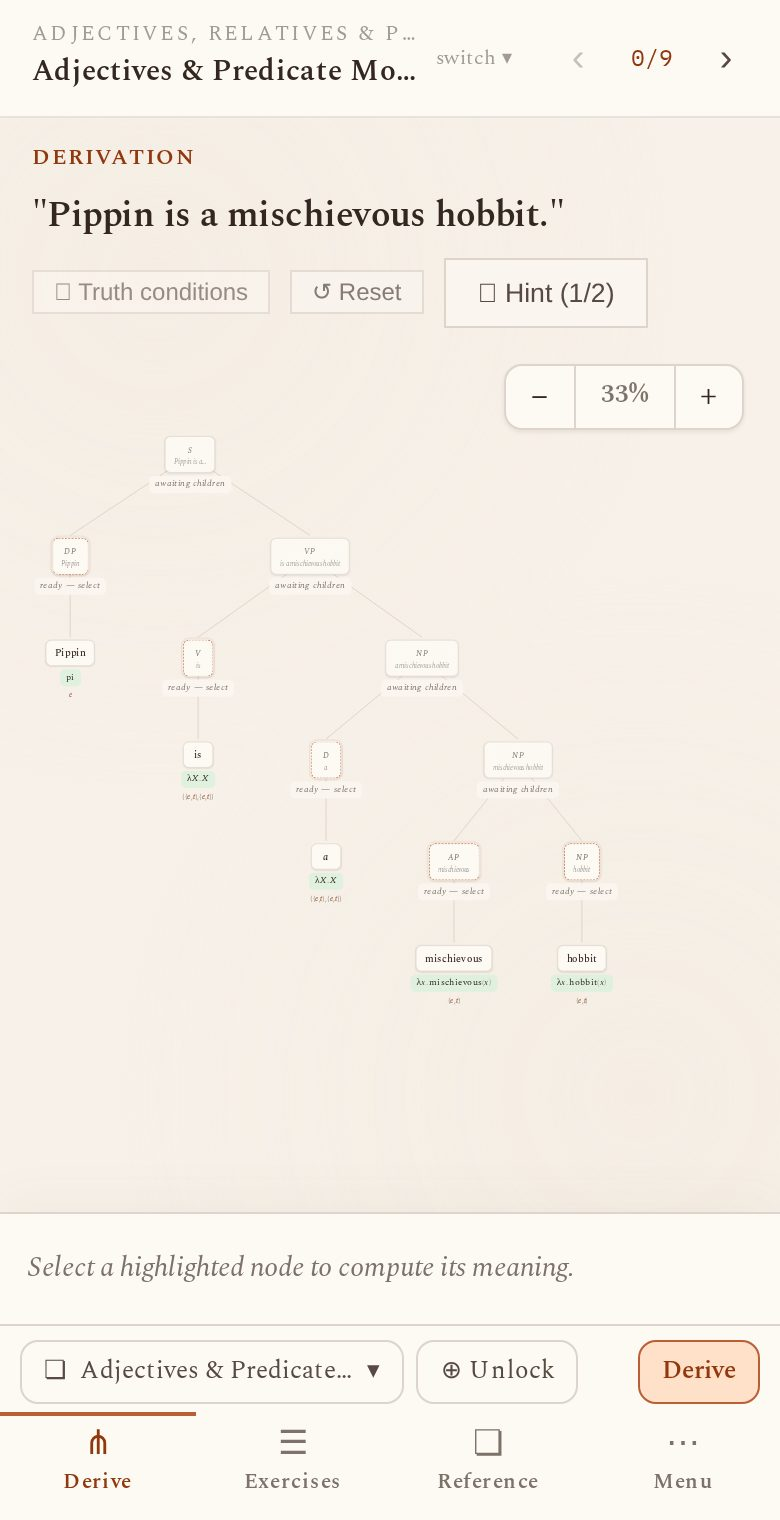
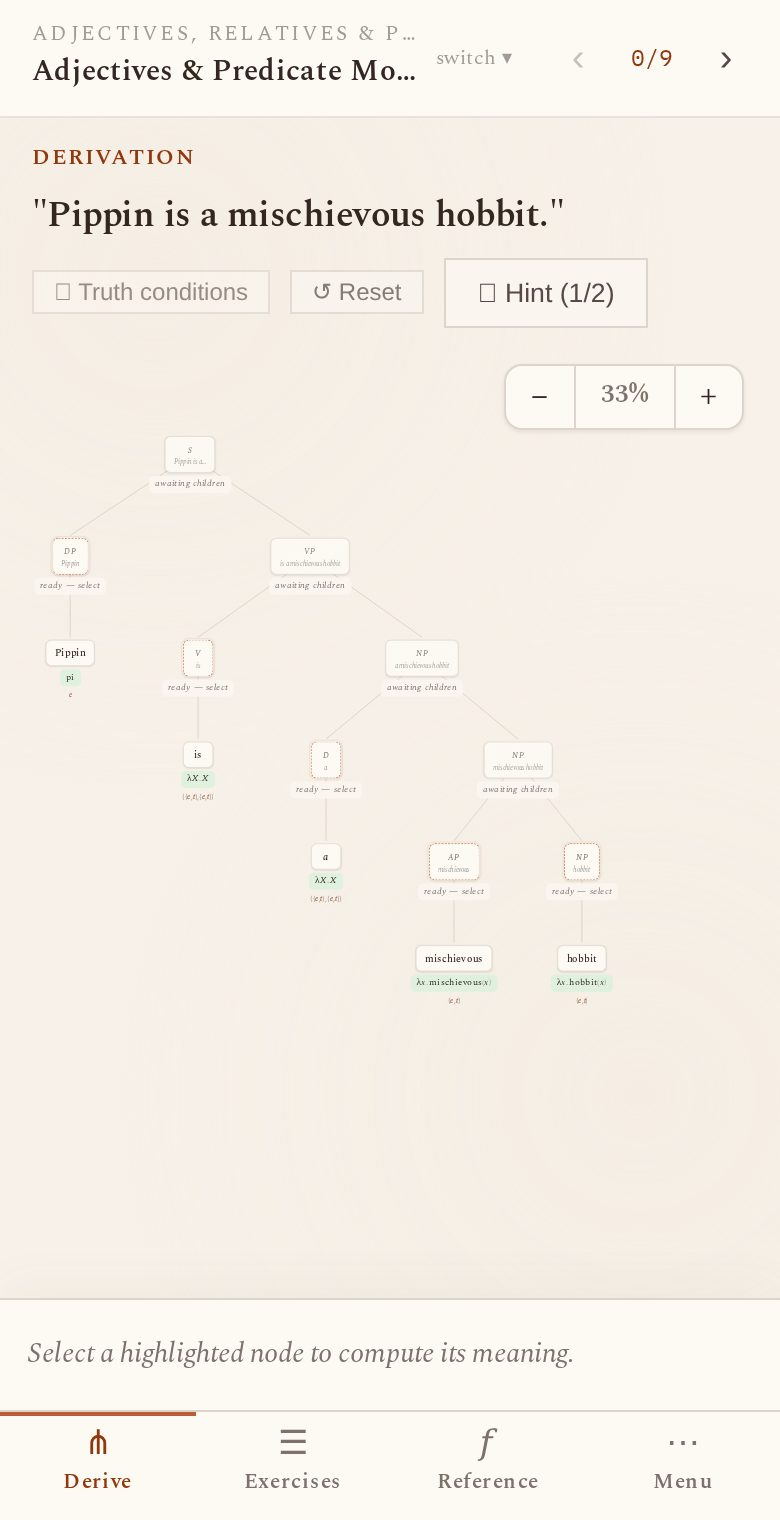
S57: media pass — re-shoot phone view (S55/S56 chrome), add tablet-drawer capture + guide figure; style the portrait guide figs; server suite 217

Changed region(s): [[0.0308, 0.8349, 0.7385, 0.9586], [0.8, 0.8658, 0.9846, 0.9276]]

diff --git a/build/guide-body.html b/build/guide-body.html
@@ -117,6 +117,9 @@ Lexicon/Rules/Notes tabs), and a Menu that carries the sidebar’s sections,
 unlock codes and settings. Worksheet-switching is on the Derive header and the
 Exercises tab.</p>
 
+<figure class="guide-fig guide-fig-mid"><img src="/guide/tablet-view.jpg" alt="The tablet layout: left navigation drawer over the full-width derivation stage" loading="lazy" />
+<figcaption>The tablet layout (760–1180px): the ☰ navigation drawer — worksheet sections, exercises and the code / QR &amp; progress foot — slides over the full-width stage; the app-bar keeps the exercise steppers and the 𝑓 Reference drawer button.</figcaption></figure>
+
 <figure class="guide-fig guide-fig-narrow"><img src="/guide/mobile-view.jpg" alt="The phone layout: derivation tree above the bottom tab bar" loading="lazy" />
 <figcaption>The phone layout: the full-width stage above the Derive · Exercises · Reference · Menu tab bar.</figcaption></figure>
 

diff --git a/PLAN.md b/PLAN.md
@@ -303,6 +303,8 @@ Sessions 0–7 are the minimum shippable path — a real, usable, deployed servi
 
 - **2026-08-01 — S56 (phone/tablet nav aligned to the desktop design language).** Goal: a user moving DESKTOP<->TABLET<->PHONE meets the same icons, section names, and order. Two changes, both PHONE-only (desktop `renderSidebarBody`/`renderRail`/reference panel UNTOUCHED; tablet already inherited desktop via `renderSidebarBody()` in its nav drawer and already used 𝑓 for its Reference button - confirmed no regression). (1) ICON FIX: the phone bottom-tab Reference glyph was ❏ - a direct collision with desktop ❏ = Worksheets. Changed to the reference glyph 𝑓 (U+1D453, `'𝑓'`), matching the tablet's `𝑓 Reference` button. (Derive ⋔, Exercises ☰, Menu ⋯ unchanged; ❏ is now used for Worksheets only, everywhere.) (2) MENU REORDER: `renderMobileMenu` (the phone Menu tab) was a hand-built list that diverged from the desktop sidebar - Account/identity block at the TOP, a `Hosting & sharing` section, no Continue section, plain-text kickers with no glyphs. Rewrote it to PARALLEL the desktop sidebar's `sbSection` order and iconography (still the phone list, NOT a fork of desktop rendering): Worksheets (❏) -> Continue (↻) -> Author (✎, canAuthor) -> Assign & share (☑, `tier==='instructor'`) -> Display (◐) -> Guide & help (ⓘ, isFullBuild) -> Account (◉, isFullBuild) LAST. Same gating expressions as the desktop `sbSection` calls. Each section header now carries its desktop glyph via a new `mbKicker(glyph,label)` helper (`.mb-kicker-glyph` span, added to themes.css beside `.mb-kicker` - muted, non-uppercased, fixed-width). Sub-items mirror desktop glyphs: Switch worksheet ❏, Your progress ✓, Unlock ⊕, Unlocked entries ⌗, My classes ❏; Continue recents ↻; Worksheet editor ✎, Scratchpad ♪, Import ↑; Choose what a class sees ☑, My versions ◈; Display toggles + Save progress ⤓ / Restore progress ⤒; Guide & help doc rows keep their per-page glyphs (◆ ? ▷ ⤓ §); Account = anon `Sign in or create an account`, signed-in identity + Sign out. vs the old phone menu: ADDED Continue (was absent); RENAMED `Hosting & sharing`->`Assign & share`; MOVED Account top->bottom. No features dropped (switch worksheet, progress, unlock, editor, scratchpad, import, my versions, assign, teacher/dark/auto/collapse toggles, layout seg, guide links, sign in/out all still reachable). IMPLEMENTATION GOTCHA: first heredoc used Python `unicode_escape` to decode `\u` sequences, which DOUBLE-decoded literal non-ASCII glyphs typed in comments into mojibake (functional code was fine - it used `\u` escapes; only comments corrupted). Reverted via `git checkout compose/app.jsx` and reapplied with an f-string carrying real Python char literals + ASCII-only comments, `assert 'a-circumflex' not in s`. VERIFICATION (headless chrome, real 390x844 + 1440x900 viewports, no forced layout): phone Menu shows Worksheets->Continue->Author->Display with matching kicker glyphs (teacher build, not isFullBuild -> Guide/Account correctly hidden); a hosted-root-id-patched build shows the full path with GUIDE & HELP + ACCOUNT (anon `Sign in or create an account`) LAST and Assign & share correctly hidden for anon; the bottom bar reads Derive ⋔ · Exercises ☰ · Reference 𝑓 · Menu ⋯ (Reference-tab glyph codepoint asserted U+1D453, not ❏); side-by-side with the desktop sidebar the section order + glyphs match. Drove the phone Menu: opened a guide doc row (pushed view appears), toggled Dark mode (`data-dark` false->true), clicked Worksheet editor (navigates), confirmed the sign-in affordance in the Account section, asserted the Reference-tab glyph. STALE MEDIA: `/guide/mobile-view.jpg` is now doubly stale (S55 phone rework + this menu reorder) - flagged for a later media pass; NOT re-recorded this session. Suites: regression 3730+331, schema 46+2, latex 1657, notes 124, server 215; check-links clean (145/33). All green; committed locally (not pushed).
 
+- **2026-08-13 — S57 (media pass: phone re-shot, tablet capture + guide figure).** Closed the S55/S56 stale-media flag. mobile-view.jpg RE-SHOT (mobile scene unchanged): the committed shot still showed the retired chip row (worksheet chip + ⊕ Unlock + Derive chip) and the pre-S56 ❏ Reference glyph; the fresh capture shows the S55 slim four-tab bar (Derive ⋔ · Exercises ☰ · Reference 𝑓 · Menu ⋯), chip row gone, tree taller (PSNR 28.7 dB vs committed = real chrome delta; the headless-font tofu on the Truth-conditions/Hint buttons is IDENTICAL in the committed originals — pre-existing, not a regression). NEW tablet-view.jpg + a `tablet` scene in capture-guide.mjs: real 820×1180 viewport with NO lc2-force-layout (the override collapses to phone/desktop only — the 760–1180 band can only be shot natively); opens ch7 via its curated code, clicks .tb-menu, waits .sheet-left, shoots the left nav drawer (drill-in exercises column + S49 foot: Code · MQ6GK7 / QR & link / progress / save / reset) over the dimmed full-width stage, app-bar steppers + 𝑓 Reference in frame. GUIDE: the tablet figure sits before the phone figure in build/guide-body.html (caption names the band, drawer contents, app-bar). Found `.guide-fig-narrow` had NO stylesheet rule ANYWHERE (vestigial — the portrait phone shot rendered at full column width): build/server.mjs guide CSS gains `.guide-fig-narrow { max-width: 340px }` + new `.guide-fig-mid { max-width: 560px }`; headless-verified the /guide render (figures at 560/340px, captions + glyphs correct, images load). VIDEOS: verified CURRENT, not re-recorded — all five wt-*.mp4 record at 1200×750 (capture-walkthroughs defaultViewport) and 1200 ≥ the 1180 desktop breakpoint, so they show the desktop shell S55 explicitly left unchanged and S56 (phone-only) never touched; the same reasoning clears the 14 remaining 1440×900 desktop stills, and signin/files-page have no responsive chrome in frame. TESTS: server suite +2 → **217** (/guide embeds tablet-view.jpg; the jpg serves 200). SANDBOX NOTES: this VM is jammy, not noble — the t64 lib names in the handoff list don't exist (use libasound2 / libatk1.0-0 / libatk-bridge2.0-0 / libcups2 / libatspi2.0-0); and the host Write tool TRUNCATED scripts/_probe.mjs when overwriting an existing mounted file (mid-file cut, caught by node --check) — the S55 truncation gotcha covers overwrites too: create a file once, afterwards only bash heredoc edits. Suites: regression 3730+331, schema 46+2, latex 1657, notes 124, server 217; check-links clean (sitemap 6 urls two-way). All green; pushed (CI deploy verified below).
+
 ## 9. Decisions that must be made by the project owner (not by agents)
 
 1. **Domain name** — **DECIDED (2026-07-09): `tstephen.com`, registered at Porkbun; COMPOSE at `compose.tstephen.com`; Hetzner VPS 167.233.233.109 (Ubuntu 24.04); both A records verified resolving.** Deploy artifacts written in S7 use these values.
